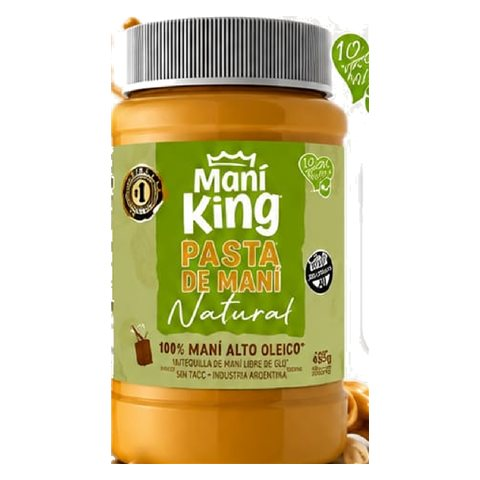
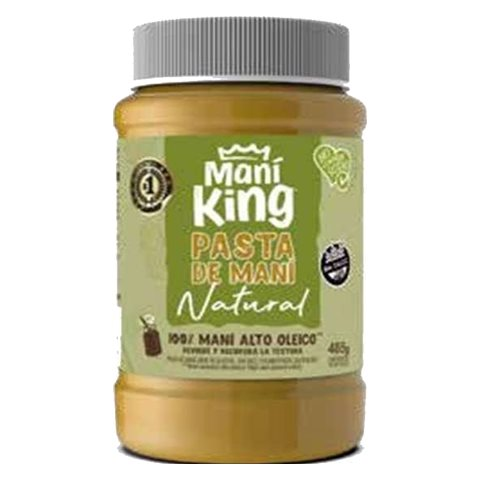
Catalogo OTM: Mani King con fotos y productos del catalogo Mani King sept 2025

diff --git a/catalogo-otm.html b/catalogo-otm.html
@@ -96,7 +96,7 @@ const esc = s => String(s).replace(/[&<>"]/g, c => ({'&':'&amp;','<':'&lt;','>':
 const fecha = iso => iso ? iso.split('-').reverse().join('/') : '';
 const limpiar = d => d.replace(/\s+/g,' ').trim();
 const marca = d => ((d.match(/CELUSAL|GENSER|TOSCANA|MENOYO|LIVIAN|ALCAZAR|MORIXE|LED|DOM|TAYAL|GRAN JUICIO|BIC|TALITAS|HARINA|MAN[IÍ]/i) || ['OTM'])[0].toUpperCase());
-const FOTOS_V = '1';   // cambiar cuando se reemplazan las fotos, para que el navegador no muestre las viejas
+const FOTOS_V = '2';   // cambiar cuando se reemplazan las fotos, para que el navegador no muestre las viejas
 const norm = s => String(s).normalize('NFD').replace(/[̀-ͯ]/g,'').toLowerCase();
 // Segmentos tildados: ninguno = se ven todos; uno o varios = solo esos (se combinan con el buscador)
 const elegidos = new Set();
